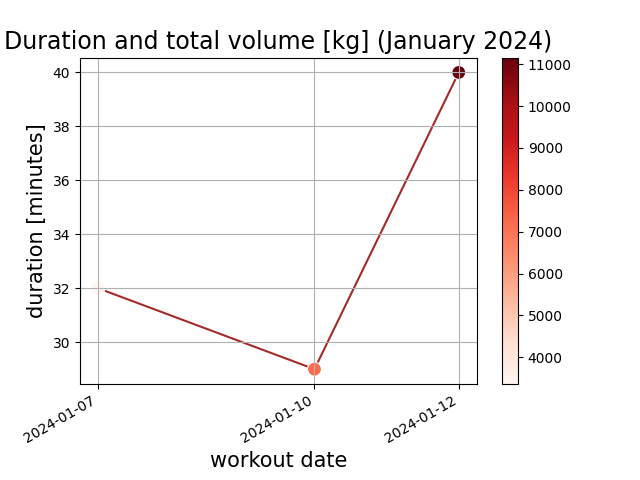
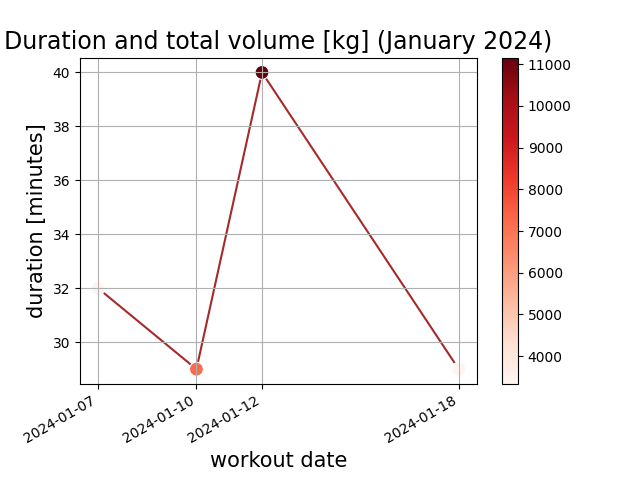
chore: add yesterday's workout

diff --git a/src/combined_metrics/combined_metrics.py b/src/combined_metrics/combined_metrics.py
@@ -74,25 +74,34 @@ def plot_frequency(table, year_to_plot: str) -> None:
     ic(res_df)
 
     _, ax = plt.subplots()
-    res_df['date'] = pd.to_datetime(res_df['date'])
+
+    # res_df['date'] = pd.to_datetime(res_df['date'])
     plt.plot(res_df['date'], res_df['workouts'], marker='o', linestyle='-', color='b')
 
     ax.xaxis.set_major_locator(mdates.WeekdayLocator())
+    # ax.xaxis.set_major_locator(mdates.AutoDateLocator())
+    ax.xaxis.set_major_formatter(mdates.DateFormatter("%Y week %U"))
 
-    freq_format = mdates.DateFormatter("%Y week %U")
-    ax.xaxis.set_major_formatter(freq_format)
-    plt.xticks(rotation=45)
+    # plt.xticks(rotation=45)
+    plt.xticks(rotation=45, ha='right')
+    # ticks = [res_df['date'].iloc[0], res_df['date'].iloc[-1]]
+    # plt.xticks(ticks, rotation=45, ha='right')
+
     # ax.get_legend().remove()
     plt.yticks(res_df["workouts"], res_df["workouts"])
     plt.xlabel("workout week", fontsize=15)
     plt.ylabel("weekly workouts", fontsize=15)
     plt.grid(True)
+
     plt.tight_layout()
     plt.subplots_adjust(top=0.9)
+
     # Adjust x-axis limits to shift data points to the left
-    plt.xlim(res_df['date'].iloc[0] - pd.to_timedelta(3, unit='d'), res_df['date'].iloc[-1] + pd.to_timedelta(3, unit='d'))
+    plt.xlim(res_df['date'].iloc[0] - pd.to_timedelta(3, unit='d'),
+             res_df['date'].iloc[-1] + pd.to_timedelta(3, unit='d')
+             )
     plt.title(f"{year_to_plot} Workout Frequency", fontsize=20)
-    plt.savefig(f"img/{year_to_plot}_workout_frequency.png")
+    # plt.savefig(f"img/{year_to_plot}_workout_frequency.png")
     plt.show()
     plt.clf()
 
